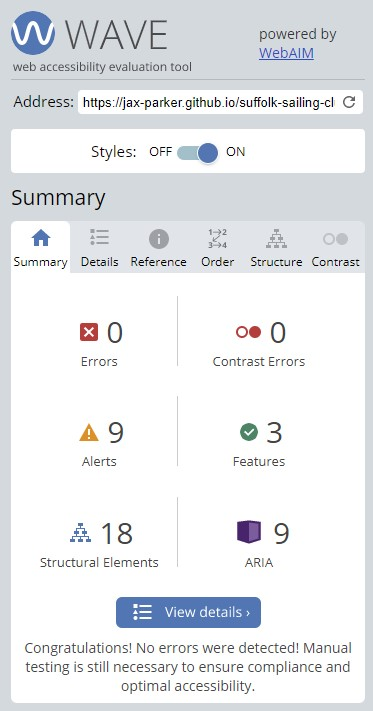
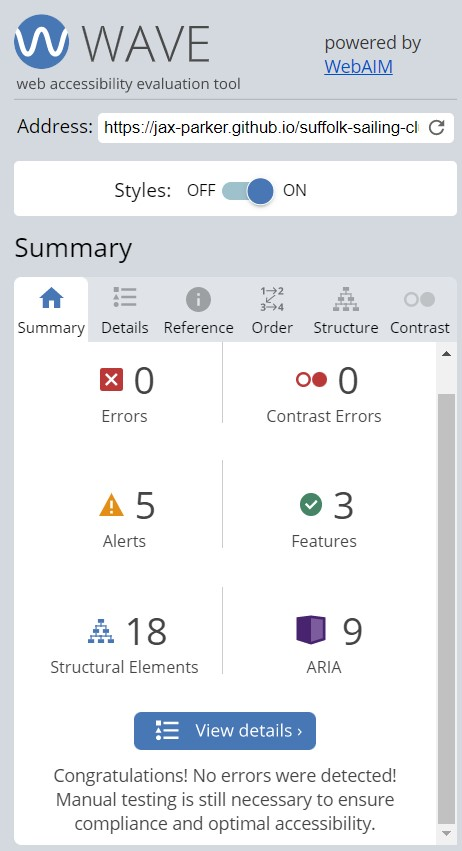
tidy readme page - reread through

diff --git a/README.md b/README.md
@@ -206,7 +206,7 @@ Testing of form validation will also be required to ensure the correct inputs ar
 
 The live Project can be found [here](https://jax-parker.github.io/suffolk-sailing-club/).</br>
 #### Validation Test Cases
-To validate web accessibility the webiste was tested on [Wave](https://wave.webaim.org/). No errors were found. Nine alerts were shown but were for items such as an H4 following an H2 instead of an H3 but I decided not to change the CSS.<br>
+To validate web accessibility the webiste was tested on [Wave](https://wave.webaim.org/). No errors were found. Five alerts were shown stating the alt text was not sufficient. This was improved and the test rerun but did not improve the score.<br>
 ![Test On Wave](assets/readme-images/wave-accessibility.jpg)<br>
 
 ### Validation Testing
